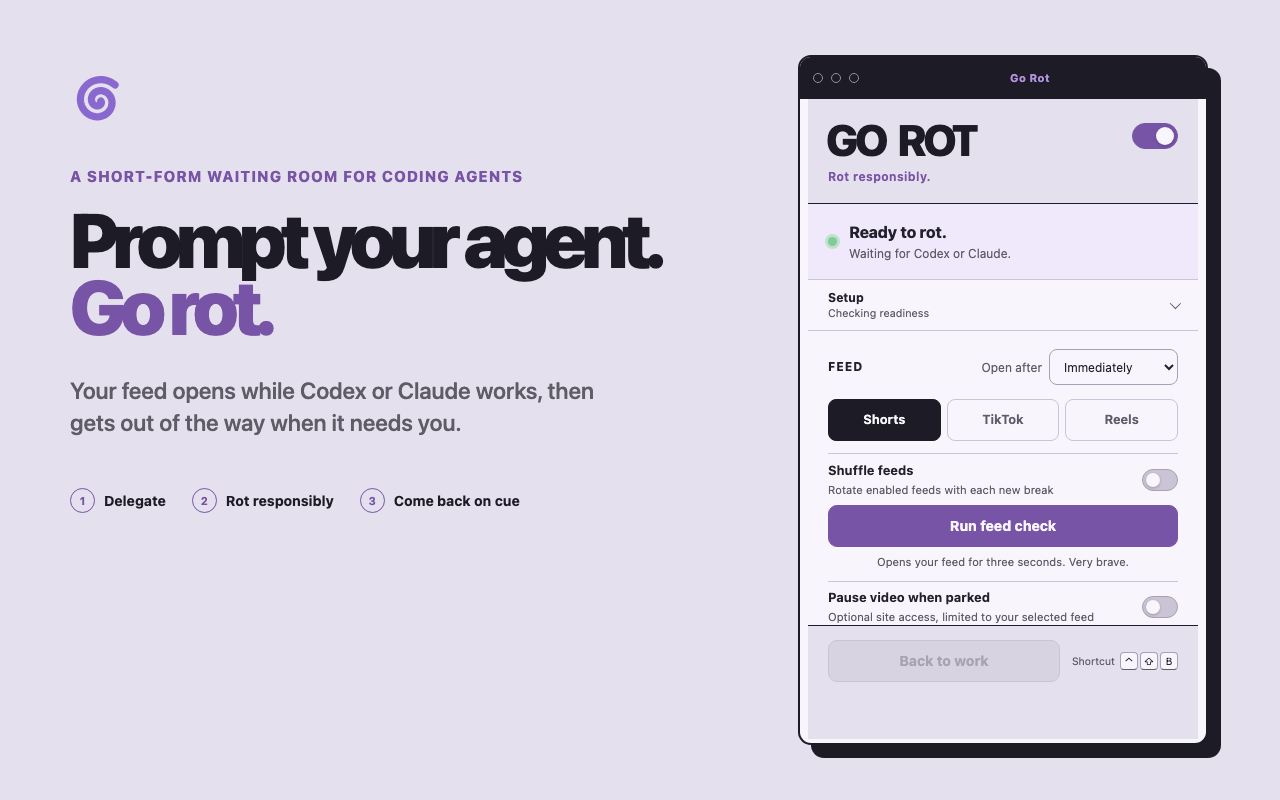
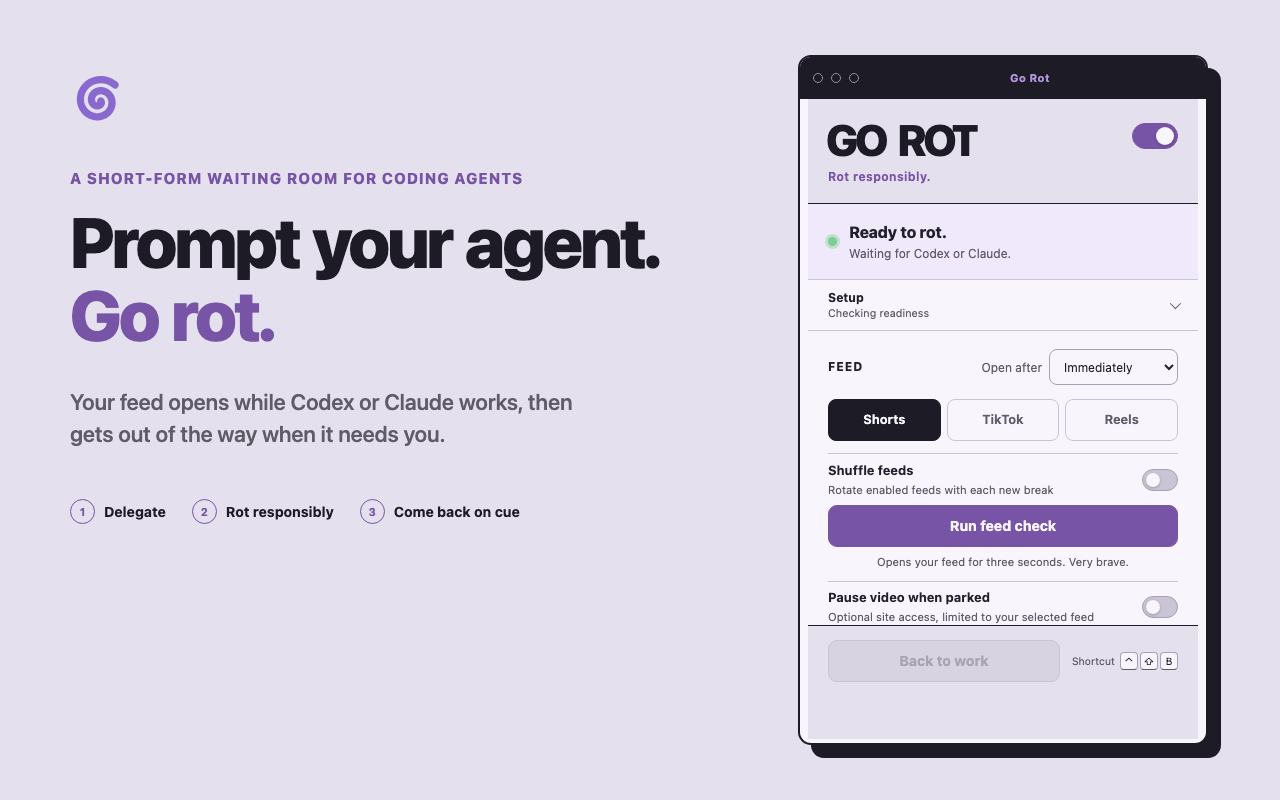
polish release typography and screenshots

Changed region(s): [[0.0625, 0.2188, 0.5312, 0.4375], [0.0312, 0.4688, 0.4688, 0.5625], [0.0625, 0.625, 0.4062, 0.6562]]

diff --git a/release/chrome-store/store-art.css b/release/chrome-store/store-art.css
@@ -21,11 +21,11 @@ body { margin: 0; overflow: hidden; background: var(--canvas); color: var(--grap
   width: 625px;
 }
 
-.mark { width: 58px; height: 58px; margin-bottom: 34px; }
+.mark { width: 58px; height: 58px; margin-bottom: 36px; }
 .eyebrow { margin: 0 0 22px; color: var(--lilac); font-size: 15px; font-weight: 790; letter-spacing: 0.075em; text-transform: uppercase; }
-h1 { margin: 0; font-size: 76px; font-weight: 880; letter-spacing: -0.075em; line-height: 0.88; }
-h1 span { color: var(--lilac); }
-.deck { max-width: 545px; margin: 34px 0 0; color: var(--muted); font-size: 23px; font-weight: 540; line-height: 1.42; }
+h1 { margin: 0; font-size: 70px; font-weight: 840; letter-spacing: -0.038em; line-height: 0.94; word-spacing: 0.035em; }
+h1 span { display: inline-block; margin-top: 7px; color: var(--lilac); }
+.deck { max-width: 545px; margin: 38px 0 0; color: var(--muted); font-size: 22px; font-weight: 540; line-height: 1.48; }
 .handoff { display: flex; gap: 26px; margin: 48px 0 0; padding: 0; list-style: none; font-size: 14px; font-weight: 710; }
 .handoff li { display: flex; align-items: center; gap: 9px; }
 .handoff span { display: grid; width: 25px; height: 25px; place-items: center; border: 1px solid var(--lilac); border-radius: 50%; color: var(--lilac); font-size: 11px; }
@@ -54,10 +54,10 @@ body[data-asset="screenshot-demo"] .panel-shot { display: none; }
 body[data-asset="screenshot-demo"] .demo-shot { display: block; width: 100%; height: 100%; padding: 36px 70px 0; }
 .demo-copy { display: flex; width: 1140px; align-items: flex-end; justify-content: space-between; }
 .demo-eyebrow { margin: 0 0 7px; color: var(--lilac); font-size: 14px; font-weight: 790; letter-spacing: 0.075em; text-transform: uppercase; }
-.demo-copy h2 { margin: 0; font-size: 42px; font-weight: 860; letter-spacing: -0.055em; line-height: 1; }
+.demo-copy h2 { margin: 0; font-size: 42px; font-weight: 830; letter-spacing: -0.028em; line-height: 1.05; }
 .demo-return { width: 310px; margin: 0 0 3px; color: var(--lilac); font-size: 22px; font-weight: 720; line-height: 1.15; }
 .demo-frame { width: 1140px; margin-top: 24px; overflow: hidden; border: 2px solid var(--graphite); border-radius: 13px; background: var(--graphite); box-shadow: 13px 13px 0 var(--graphite); }
-.demo-frame img { display: block; width: 100%; aspect-ratio: 16 / 9; object-fit: cover; }
+.demo-frame img { display: block; width: 100%; height: auto; }
 
 body[data-asset="promo-small"] .copy,
 body[data-asset="promo-small"] .panel-shot,

diff --git a/site/styles.css b/site/styles.css
@@ -134,16 +134,18 @@ button:focus-visible {
 }
 
 h1 {
-  max-width: 9ch;
+  max-width: 10ch;
   margin: 0;
-  font-size: clamp(4rem, 6.9vw, 8.3rem);
-  font-weight: 860;
-  letter-spacing: -0.068em;
-  line-height: 0.82;
-  word-spacing: 0.07em;
+  font-size: clamp(3.8rem, 6.2vw, 7.5rem);
+  font-weight: 830;
+  letter-spacing: -0.038em;
+  line-height: 0.9;
+  word-spacing: 0.035em;
 }
 
 h1 span {
+  display: inline-block;
+  margin-top: 0.08em;
   color: var(--lilac-strong);
 }
 
@@ -463,7 +465,7 @@ h1 span {
   }
 
   h1 {
-    font-size: clamp(3.6rem, 6.4vw, 5.7rem);
+    font-size: clamp(3.5rem, 5.8vw, 5.35rem);
   }
 
   .install-strip {
@@ -497,9 +499,9 @@ h1 span {
   }
 
   h1 {
-    max-width: 9.5ch;
-    font-size: clamp(3.5rem, 5.75vw, 5.1rem);
-    line-height: 0.79;
+    max-width: 10ch;
+    font-size: clamp(3.4rem, 5.35vw, 4.8rem);
+    line-height: 0.9;
   }
 
   .intro {
@@ -541,8 +543,8 @@ h1 span {
   }
 
   h1 {
-    max-width: 8.5ch;
-    font-size: clamp(4rem, 13vw, 7.2rem);
+    max-width: 9.5ch;
+    font-size: clamp(3.8rem, 12vw, 6.6rem);
   }
 
   .intro {
@@ -592,7 +594,7 @@ h1 span {
   }
 
   h1 {
-    font-size: clamp(3.55rem, 17vw, 5.5rem);
+    font-size: clamp(3.3rem, 15vw, 5rem);
   }
 
   .actions {
